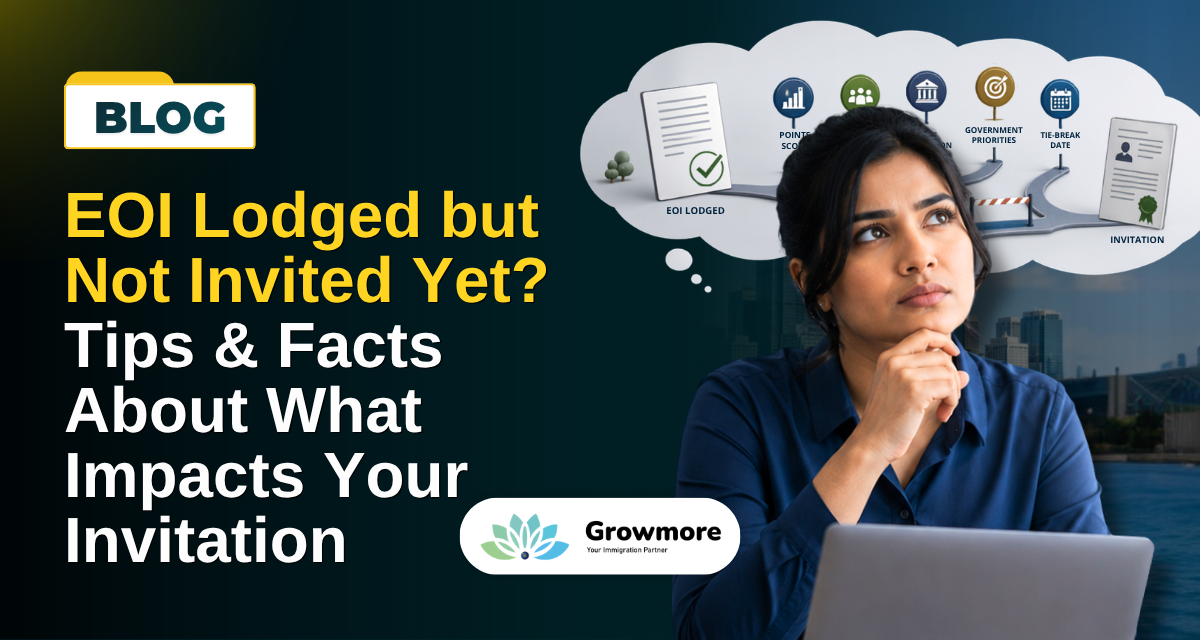
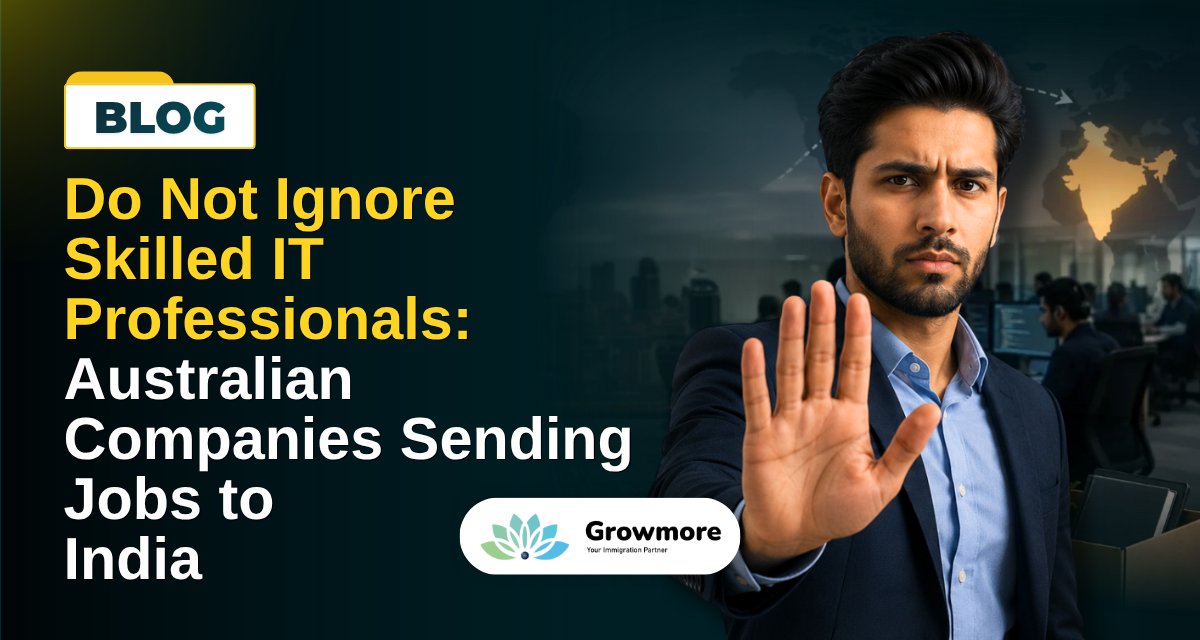
added blog

diff --git a/src/data/blogsData.js b/src/data/blogsData.js
@@ -1,5 +1,14 @@
 export const blogs = [  
-   {
+  {
+    id: 101,
+    slug: "do-not-ignore-skilled-it-professionals-australian-companies-sending-jobs-to-india",
+    title: "Do Not Ignore Skilled IT Professionals: Australian Companies Sending Jobs to India ",
+    metaTitle: "Australia IT Jobs and Skilled Migration Opportunities",
+    metaDescription:"Australia’s demand for IT talent continues to grow. Learn about skilled migration opportunities and visa options for qualified IT professionals.",
+    date: "Aug 08, 2026",
+    image: `/assets/bg102.png`,
+  }, 
+  {
     id: 100,
     slug: "eoi-lodged-but-not-invited-yet-tips-and-facts-about-what-impacts-your-invitation",
     title: "EOI Lodged but Not Invited Yet? Tips & Facts About What Impacts Your Invitation ",

diff --git a/public/content/blogs/do-not-ignore-skilled-it-professionals-australian-companies-sending-jobs-to-india.md b/public/content/blogs/do-not-ignore-skilled-it-professionals-australian-companies-sending-jobs-to-india.md
@@ -1,0 +1,69 @@
+Source: Ticker News 
+
+Australia's biggest companies are increasingly sending high-skilled jobs to India, and the reason goes far beyond lower labour costs. It is about access to world-class technology talent.	 
+
+According to Ticker News, Coles is considering moving up to 1,000 roles across marketing, finance, human resources and technology to India. Similar offshoring strategies have already been adopted by Woolworths, while Qantas is also reportedly exploring expanding work overseas. 
+
+These companies say they need access to global expertise in artificial intelligence (AI), software engineering and digital transformation to remain competitive against international giants such as Amazon. 
+
+## Australia Cannot Afford to Ignore Skilled IT Professionals 
+
+The latest developments send a clear message: Australia still needs highly skilled IT professionals and skilled technology workers. 
+
+When businesses cannot access the technology talent they need within Australia, they have two options: 
+
+* Bring skilled professionals into Australia; or 
+* Send the work to countries where that expertise already exists. 
+
+Unfortunately, many companies are now choosing the second option. 
+
+Every technology job moved offshore is an opportunity, investment and innovation that leaves Australia. 
+
+For this reason, skilled migration for IT professionals remains an important part of Australia's ability to meet demand for specialised technology skills. 
+
+## Why This Matters 
+
+Australia is investing heavily in AI, cybersecurity, cloud computing and digital transformation. However, without sufficient access to skilled professionals, businesses will continue expanding overseas teams rather than growing their Australian workforce. 
+
+This is no longer just about saving money. It is about ensuring businesses have access to the right expertise when they need it. 
+
+If Australia wants to remain globally competitive, attracting and retaining skilled IT professionals in Australia must remain a priority. This also creates opportunities for IT professionals looking to migrate to Australia, particularly those with qualifications and experience in areas where Australian businesses continue to require specialised skills. 
+
+## A Strong Message for Policymakers 
+
+Restricting access to skilled technology professionals does not reduce demand for those skills. It simply encourages companies to relocate the work overseas. 
+
+The question is no longer whether Australia needs skilled IT professionals. 
+The question is whether Australia wants those jobs, innovation and investment to stay here. 
+
+For Australian skilled migration, maintaining pathways that allow businesses to access genuine global talent can play an important role in addressing skills shortages and supporting Australia's technology sector. 
+
+## Thinking About Migrating to Australia as an IT Professional? 
+
+The demand for skilled technology professionals continues to exist across many sectors. If you have qualifications or experience in IT, software development, AI, cybersecurity, cloud computing or related fields, now is the time to understand your Australian immigration options. 
+
+Book your consultation with Growmore Immigration today. Our Registered Migration Agent in Australia can assess your eligibility, explain the most suitable visa pathways, and help you build a strategy to live and work in Australia. 
+
+Contact Growmore Immigration today and take the first step towards your Australian future. 
+
+## FAQs 
+ 
+**1. Is Australia still looking for skilled IT professionals?**
+
+Yes. Australia continues to need skilled IT professionals in areas such as software development, AI, cybersecurity, cloud computing, data and digital technology. 
+
+**2. Can IT professionals migrate to Australia without employer sponsorship?**
+
+Yes. Eligible IT professionals may explore Skilled Independent, State Nominated and other skilled migration pathways, depending on their occupation, points, skills assessment and overall profile. 
+
+**3. Does IT work experience in India help with Australian migration?**
+
+Yes, relevant IT work experience can strengthen your Australian skilled migration profile and may contribute to your points or skills assessment, depending on the visa and occupation requirements. 
+
+**4. Which IT skills are in demand in Australia?**
+
+Australia continues to require technology talent in areas such as software engineering, cybersecurity, artificial intelligence, cloud computing, data and digital transformation. Demand can vary by occupation and state. 
+ 
+**5. What Australian visas can IT professionals apply for?**
+
+Depending on their profile, IT professionals may consider employer-sponsored, skilled independent and state-nominated visas. Your occupation, skills assessment, English, age and work experience will determine which options may be suitable. 
